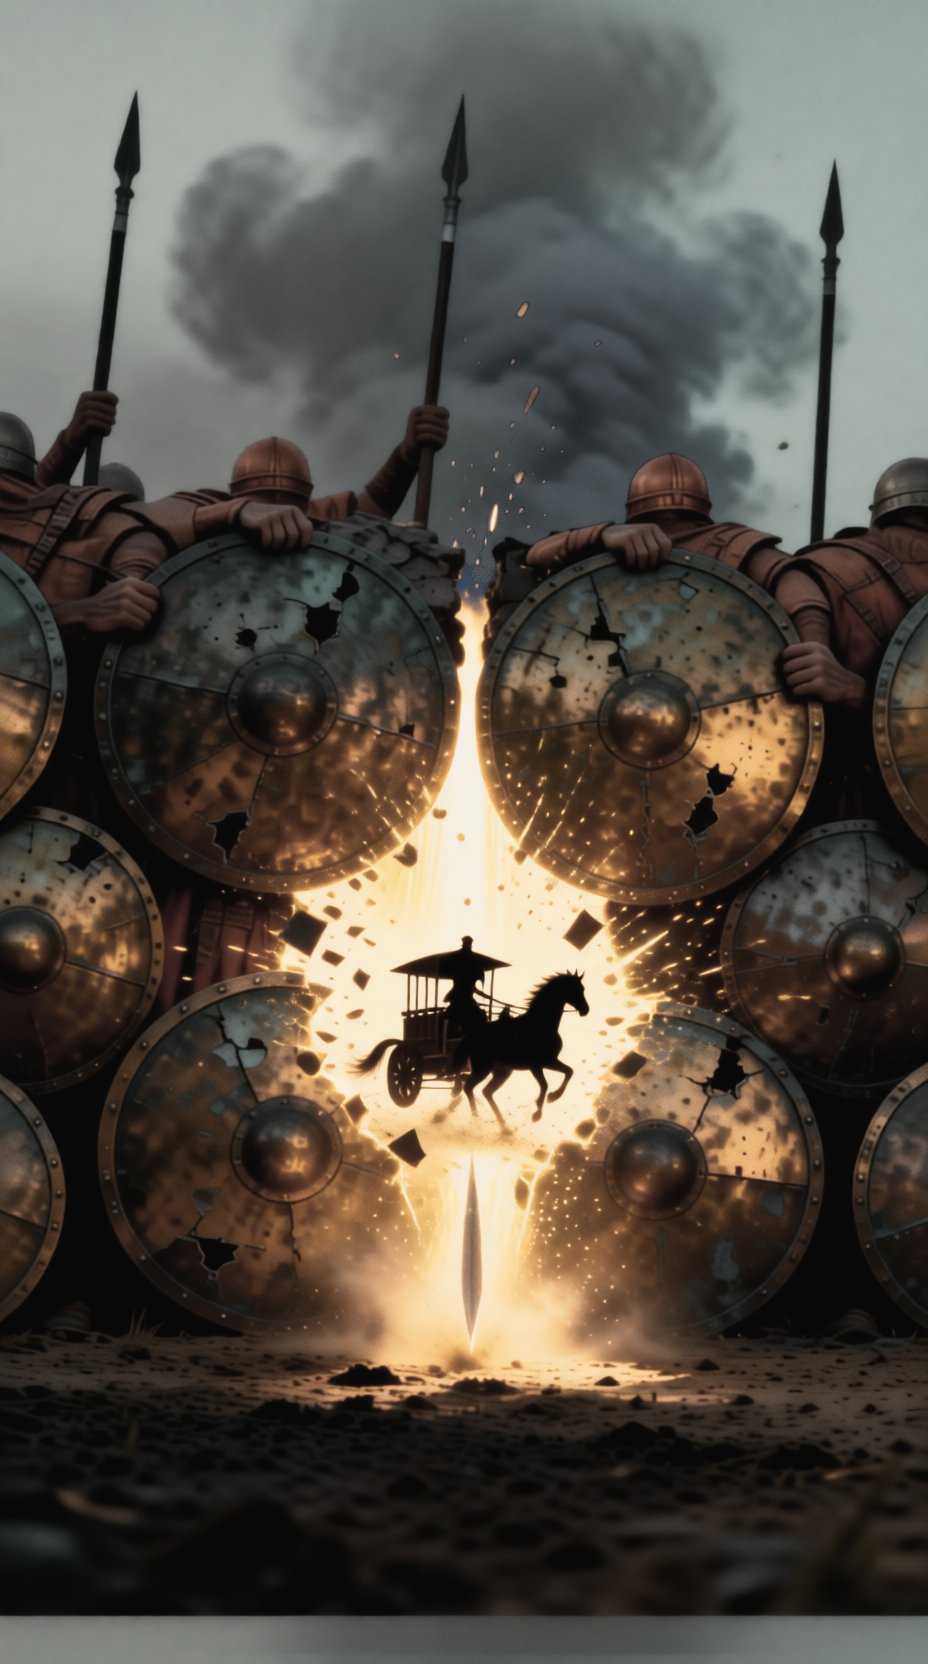
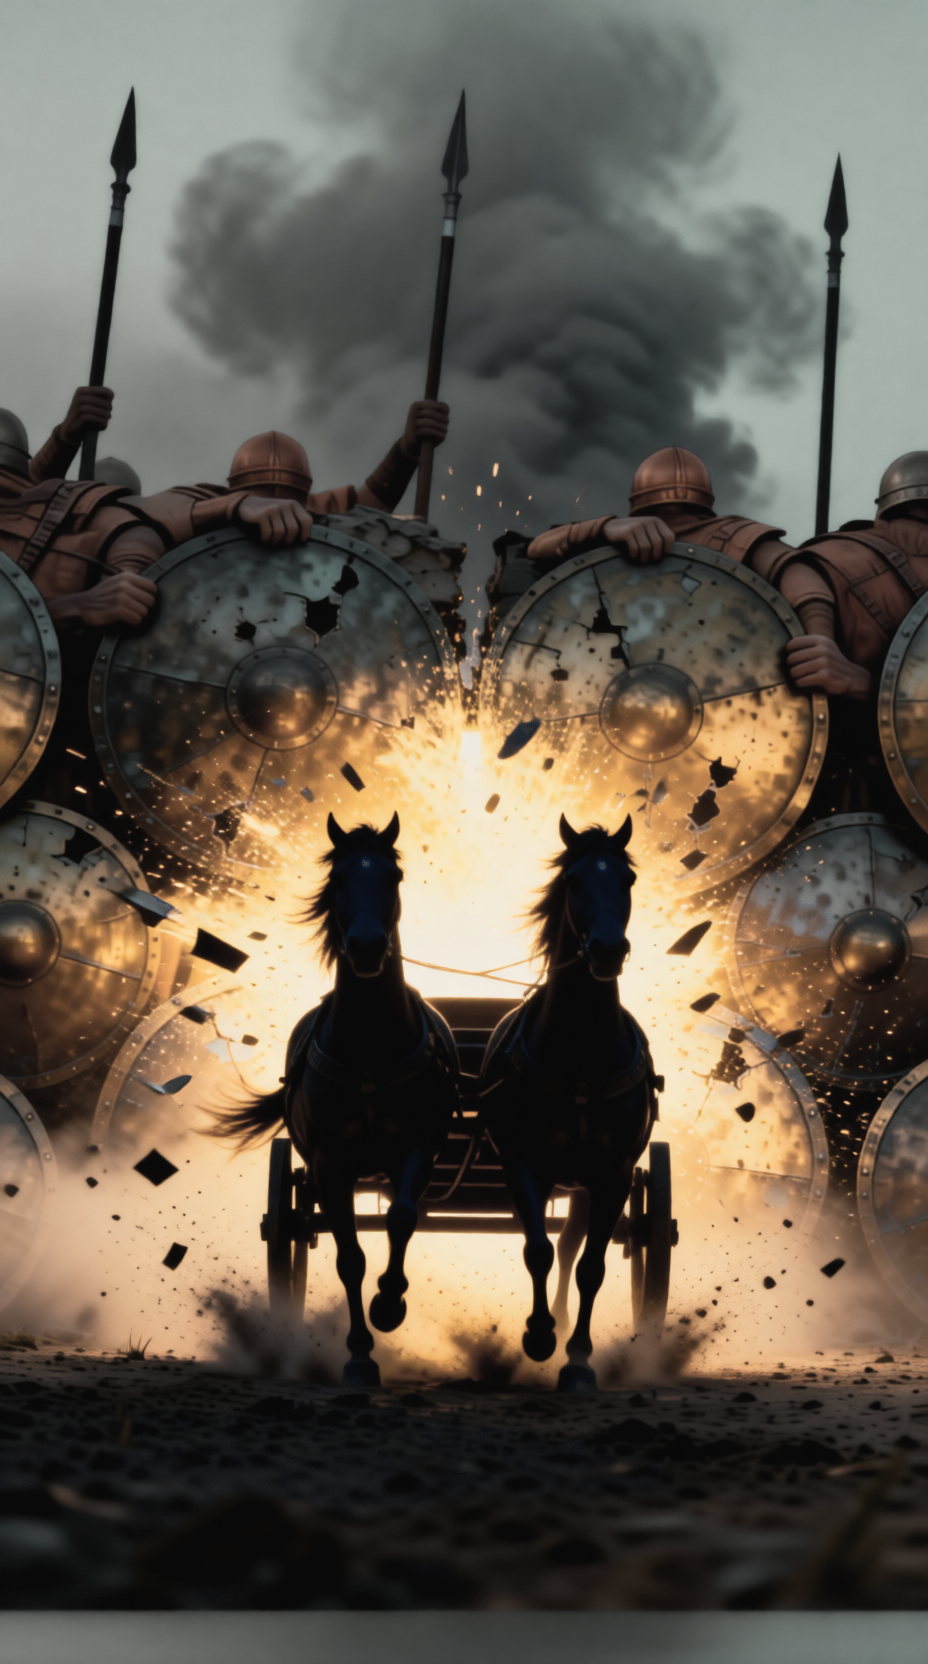
v6.1: bigger breakthrough, giant wheel in two beats, dramatic walk to the wall
New stills and clips for shot 9 (walk toward the wall), shot 11 (chariot
bursting through, no fire), and the wheel beat split into 18a (kneeling
at a chest-high wheel) and 18b (wheel raised overhead), replacing 18/19.
wan_i2v.py gains a per-job extra negative prompt.

Claude-Session: https://claude.ai/code/session_01JMNgZUr1LX5SEDfS7KQBiY

diff --git a/scripts/wan_i2v.py b/scripts/wan_i2v.py
@@ -1,7 +1,7 @@
 #!/usr/bin/env python3
 """Queue Wan 2.2 I2V A14B (fp8 + Lightx2v 4-step) jobs on the Slow Light ComfyUI pod.
 
-Usage: wan_i2v.py JOBS.json   (list of {"name", "image", "prompt", "seed", "frames"?})
+Usage: wan_i2v.py JOBS.json   (list of {"name", "image", "prompt", "seed", "frames"?, "neg_extra"?})
 "image" is a file in ComfyUI's input folder. Output: 704x1280, 16 fps.
 """
 import json, os, subprocess, sys
@@ -12,7 +12,7 @@ NEG = ("text, captions, subtitles, logo, watermark, morphing, face change, ident
        "heavy camera shake, flicker, blurry, low quality, jpeg artifacts, static frame, gore, blood spray, talking, lip movement")
 
 
-def graph(prompt, seed, image, prefix, frames=81):
+def graph(prompt, seed, image, prefix, frames=81, neg_extra=""):
     return {
         "1": {"class_type": "UNETLoader", "inputs": {"unet_name": "wan2.2_i2v_high_noise_14B_fp8_scaled.safetensors", "weight_dtype": "default"}},
         "2": {"class_type": "UNETLoader", "inputs": {"unet_name": "wan2.2_i2v_low_noise_14B_fp8_scaled.safetensors", "weight_dtype": "default"}},
@@ -24,7 +24,7 @@ def graph(prompt, seed, image, prefix, frames=81):
         "8": {"class_type": "VAELoader", "inputs": {"vae_name": "wan_2.1_vae.safetensors"}},
         "9": {"class_type": "LoadImage", "inputs": {"image": image}},
         "10": {"class_type": "CLIPTextEncode", "inputs": {"clip": ["7", 0], "text": prompt}},
-        "11": {"class_type": "CLIPTextEncode", "inputs": {"clip": ["7", 0], "text": NEG}},
+        "11": {"class_type": "CLIPTextEncode", "inputs": {"clip": ["7", 0], "text": NEG + (", " + neg_extra if neg_extra else "")}},
         "12": {"class_type": "WanImageToVideo", "inputs": {"positive": ["10", 0], "negative": ["11", 0], "vae": ["8", 0],
                 "width": 704, "height": 1280, "length": frames, "batch_size": 1, "start_image": ["9", 0]}},
         "13": {"class_type": "KSamplerAdvanced", "inputs": {"model": ["5", 0], "add_noise": "enable", "noise_seed": seed, "steps": 4, "cfg": 1.0,
@@ -40,7 +40,7 @@ def graph(prompt, seed, image, prefix, frames=81):
 
 
 for job in json.load(open(sys.argv[1])):
-    g = graph(job["prompt"], job["seed"], job["image"], f"slowlight/vid/{job['name']}_s{job['seed']}", job.get("frames", 81))
+    g = graph(job["prompt"], job["seed"], job["image"], f"slowlight/vid/{job['name']}_s{job['seed']}", job.get("frames", 81), job.get("neg_extra", ""))
     out = subprocess.run(["curl", "-sS", "-m", "60", "-H", "Content-Type: application/json", "-d", "@-", B + "/prompt"],
                          input=json.dumps({"prompt": g}), capture_output=True, text=True).stdout
     print(job["name"], job["seed"], out.strip()[:300])
